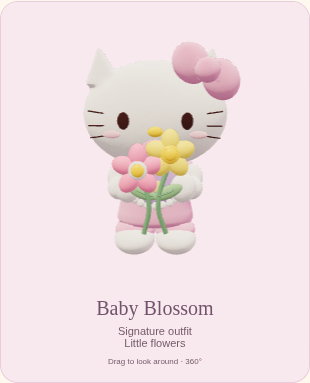
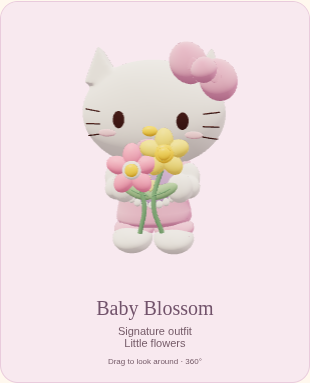
Record verified smooth collection release and round rabbit ear previews

diff --git a/docs/production-plan.md b/docs/production-plan.md
@@ -632,7 +632,7 @@ Both the individual Silver Bunny Blender project and the five-project bundle
 contain the corrected ears; the website archive matches the tested game revision.
 Nancy’s progress, letter and permanent gift-start marker remain unchanged.
 
-## Smooth collection and rounded rabbit ears · v2.0.3 (verification)
+## Smooth collection and rounded rabbit ears · v2.0.3 (published)
 
 The creator requested smoother textures on all five and identified another
 unwanted shape near Silver Bunny’s ears. Remove fleece normals/bump textures
@@ -648,3 +648,37 @@ marker remain. Physical phone/Mac Safari review remains pending.
 Verify all five source portraits and game previews, smooth-material export,
 round rabbit tips, no extra hood rim, all expressions/dances, baking contact,
 phone framing and save compatibility before the full browser release gate.
+
+Source revision: `62b3195f3d759a380c1c5fb3932d29b90958b91d`.
+Game candidate: `7876eb455f54fae78fde9f8853c49121348d46ef`.
+All **197 automated checks** passed (80 Node/model/domain and 117 Vitest).
+The model gate now asserts smooth matte material export and the absence of
+fleece normal textures, alongside every existing dance/expression/prop-contact
+check. Rabbit fitting checks assert rounded-cap revision and no extra hood shell.
+
+All five Blender portraits were visually reviewed after restoring the original
+smooth sculpt surfaces. Rabbit profile, rear and dance renders were reviewed
+with the new round caps and one head surface. Portable Blender archives were
+verified against all five source checksums. Full release gate:
+[run 42119305391](https://github.com/hmlim123/hellokittygame/actions/runs/42119305391).
+All 197 automated checks and all 16 browser suites passed; all four browser
+groups and Pages deployment succeeded before publication.
+
+Local browser verification passed all five real model selections, distinct
+dances, wink/happy restoration, shared outfits, postcard capture/metadata,
+room/adventure walking and reload, tall-accessory baking, and 320px touch with
+reduced motion. Silver Bunny’s front/profile/rear game views and phone preview
+were visually inspected with rounded tips and no extra shell. Failure/retry,
+late-response cancellation and the classic fallback also passed with zero
+page errors. Updated review images replace the previous textured versions.
+The website archive was checked against each actual smooth model and source
+manifest. Physical-device review is still pending.
+
+Publication verified in run **42119305391** for candidate
+`7876eb455f54fae78fde9f8853c49121348d46ef`. The exact immutable tested artifact
+was deployed. Published game:
+<https://hmlim123.github.io/hellokittygame/?v=gift-20&update=smooth-collection-27>.
+The five-project smooth Blender bundle and website archive contain the updated
+models; source checksums and the smooth surface metadata were verified.
+Nancy’s progress, letter and permanent first-gift marker remain unchanged.
+Physical phone and Mac/Safari review remain pending.
